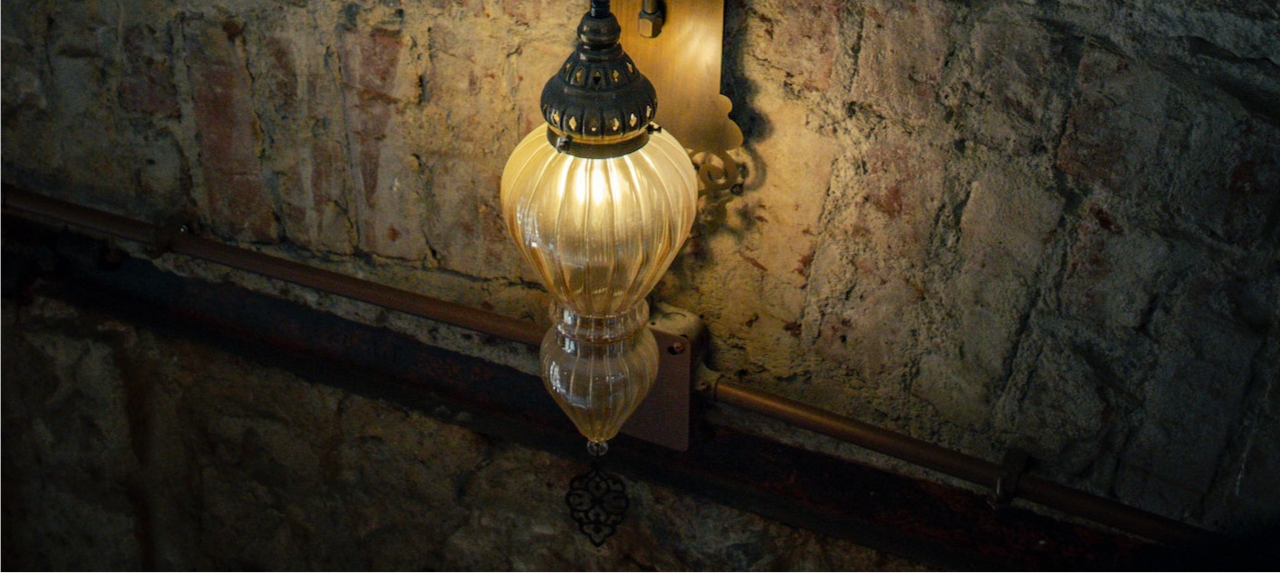
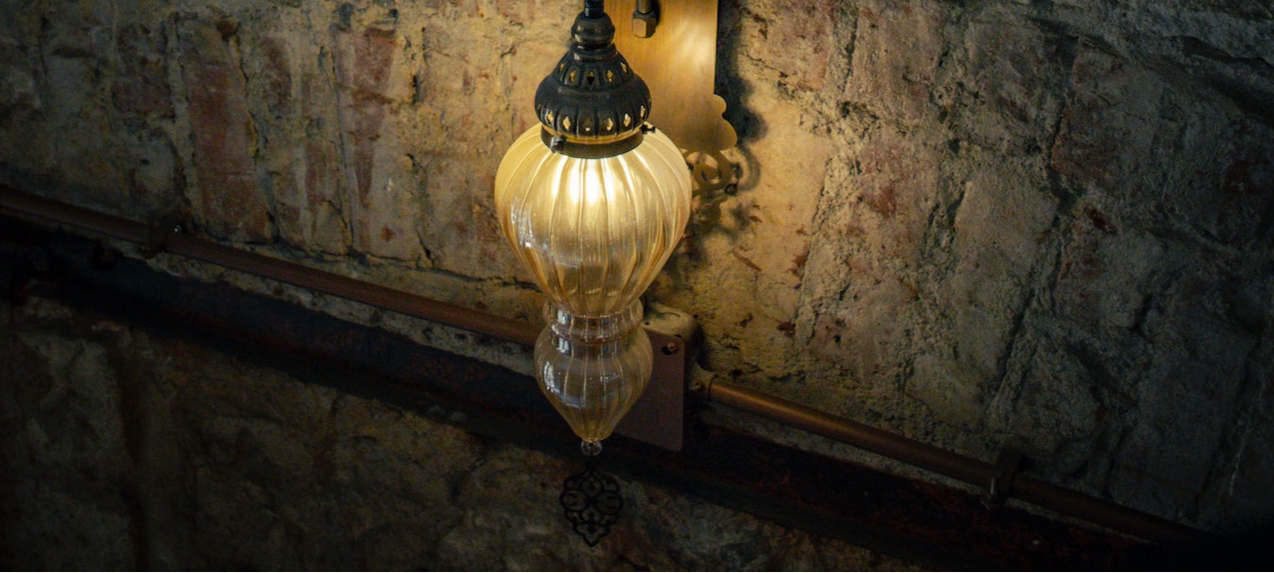
swipper added!

diff --git a/src/components/Hero.jsx b/src/components/Hero.jsx
@@ -1,18 +1,58 @@
-import React from "react";
+import { Swiper, SwiperSlide } from "swiper/react";
+
+import "swiper/css";
+import "swiper/css/pagination";
+import "swiper/css/navigation";
 
 import "./Hero.css";
+
+// import required modules
+import { Pagination } from "swiper/modules";
+
+const images = [
+    {
+        id: 1,
+        src: "./Images/landingImg.png",
+    },
+    {
+        id: 2,
+        src: "https://images.unsplash.com/photo-1558882224-dda166733046?q=80&w=2069&auto=format&fit=crop&ixlib=rb-4.0.3&ixid=M3wxMjA3fDB8MHxwaG90by1wYWdlfHx8fGVufDB8fHx8fA%3D%3D",
+    },
+    {
+        id: 3,
+        src: "https://media.istockphoto.com/id/1453455775/photo/handmade-door-hanging-decoration-handicraft-sea-shell.jpg?s=2048x2048&w=is&k=20&c=rMNWrojJOK5FHDjNrrh94WwjX6wCda7lSU2nsFTuygI=",
+    },
+];
 
 const Hero = () => {
     return (
         <section className="hero">
-            <div className="hero-wrapper">
-                <h3>
-                    "Where History Meets Home: Discover Timeless Treasures."
-                </h3>
-                <h5>Antiques Unearthed, Stories Rediscovered."</h5>
-                <button>Explore Now</button>
-            </div>
+            <Swiper
+                slidesPerView={1}
+                spaceBetween={30}
+                loop={true}
+                pagination={{
+                    clickable: true,
+                }}
+                modules={[Pagination]}
+                className="mySwiper"
+            >
+                {images.map((image) => {
+                    return (<SwiperSlide className="mainSwiper">
+                        <img src={image.src} alt="bgImg" />
+                        <div className="hero-wrapper">
+                            <h3>
+                                "Where History Meets Home: Discover Timeless
+                                Treasures."
+                            </h3>
+                            <h5>Antiques Unearthed, Stories Rediscovered."</h5>
+                            <button>Explore Now</button>
+                        </div>
+                    </SwiperSlide>)
+                })}
+            </Swiper>
         </section>
+
     );
 };
 

diff --git a/src/components/Hero.css b/src/components/Hero.css
@@ -1,16 +1,18 @@
 .hero {
     width: 100%;
     height: 80vh;
-    background: url("/Images/landingImg.png"),
-        lightgray 0.58px -1347.901px / 100% 335.079% no-repeat;
-    background-size: cover;
-    background-position: center;
-    background-color: black;
-    padding: 0 6.75vw;
+    position: relative;
 }
 
 .hero-wrapper {
-    width: 50%;
+    width: 45%;
+    position: absolute;
+    left: 10%
+}
+
+.mainSwiper{
+    width: 100%;
+    height: 100%;
 }
 
 .hero-wrapper h3 {
@@ -52,33 +54,74 @@
     color: black;
 }
 
+.swiper {
+    width: 100%;
+    height: 100%;
+    margin-left: auto;
+    margin-right: auto;
+}
+
+.swiper-slide {
+    font-size: 18px;
+    background: #fff;
+
+    /* Center slide text vertically */
+    display: flex;
+    justify-content: start;
+    align-items: center;
+}
+
+.swiper-slide img {
+    display: block;
+    width: 100%;
+    height: 100%;
+    object-fit: cover;
+}
+
+.swiper-pagination{
+    top: 10vw;
+    margin-top: 19vw;
+}
+
+.swiper-pagination-bullet{
+    width: 1.5vw;
+    height: 1.5vw;
+    background-color: #756557;
+}
+
+.swiper-pagination-bullet-active{
+    width: 1.5vw;
+    height: 1.5vw;
+}
+
+
 @media screen and (max-width: 768px) {
-    .hero{
+    .hero {
         height: 50vh;
     }
     .hero-wrapper {
-        width: 100%;
+        width: 80%;
     }
-    .hero-wrapper h3{
+    .hero-wrapper h3 {
         font-size: 5vw;
     }
-    .hero-wrapper h5{
+    .hero-wrapper h5 {
         font-size: 3vw;
     }
-    .hero-wrapper button{
+    .hero-wrapper button {
         font-size: 3vw;
         padding: 1vw;
     }
 }
 
 @media screen and (max-width: 415px) {
-    .hero-wrapper h3{
+    .hero-wrapper h3 {
         font-size: 8vw;
     }
-    .hero-wrapper h5{
+    .hero-wrapper h5 {
         font-size: 5vw;
     }
-    .hero-wrapper button{
+    .hero-wrapper button {
         font-size: 3vw;
         padding: 2vw;
     }

diff --git a/src/components/Shop.css b/src/components/Shop.css
@@ -4,7 +4,6 @@
 
 .shop-wrapper {
     text-align: center;
-    margin-top: 10.44vw;
 }
 
 .shop-wrapper h3 {
@@ -37,17 +36,16 @@
 }
 
 @media screen and (max-width: 768px) {
-    .cards-wrapper{
+    .cards-wrapper {
         flex-wrap: wrap;
     }
     .cards {
         gap: 10vw;
     }
-    .cards-wrapper{
+    .cards-wrapper {
         justify-content: space-evenly;
         gap: 4rem;
     }
-    
 }
 
 @media screen and (max-width: 414px) {
@@ -55,4 +53,3 @@
         gap: 20vw;
     }
 }
-

diff --git a/src/components/Shop.jsx b/src/components/Shop.jsx
@@ -7,7 +7,6 @@ const Shop = () => {
     return (
         <section className="shop">
             <div className="shop-wrapper">
-                <img src="/Images/circle.svg" alt="" />
                 <h3>Shop by category </h3>
                 <div className="cards">
                     <div className="cards-wrapper">
